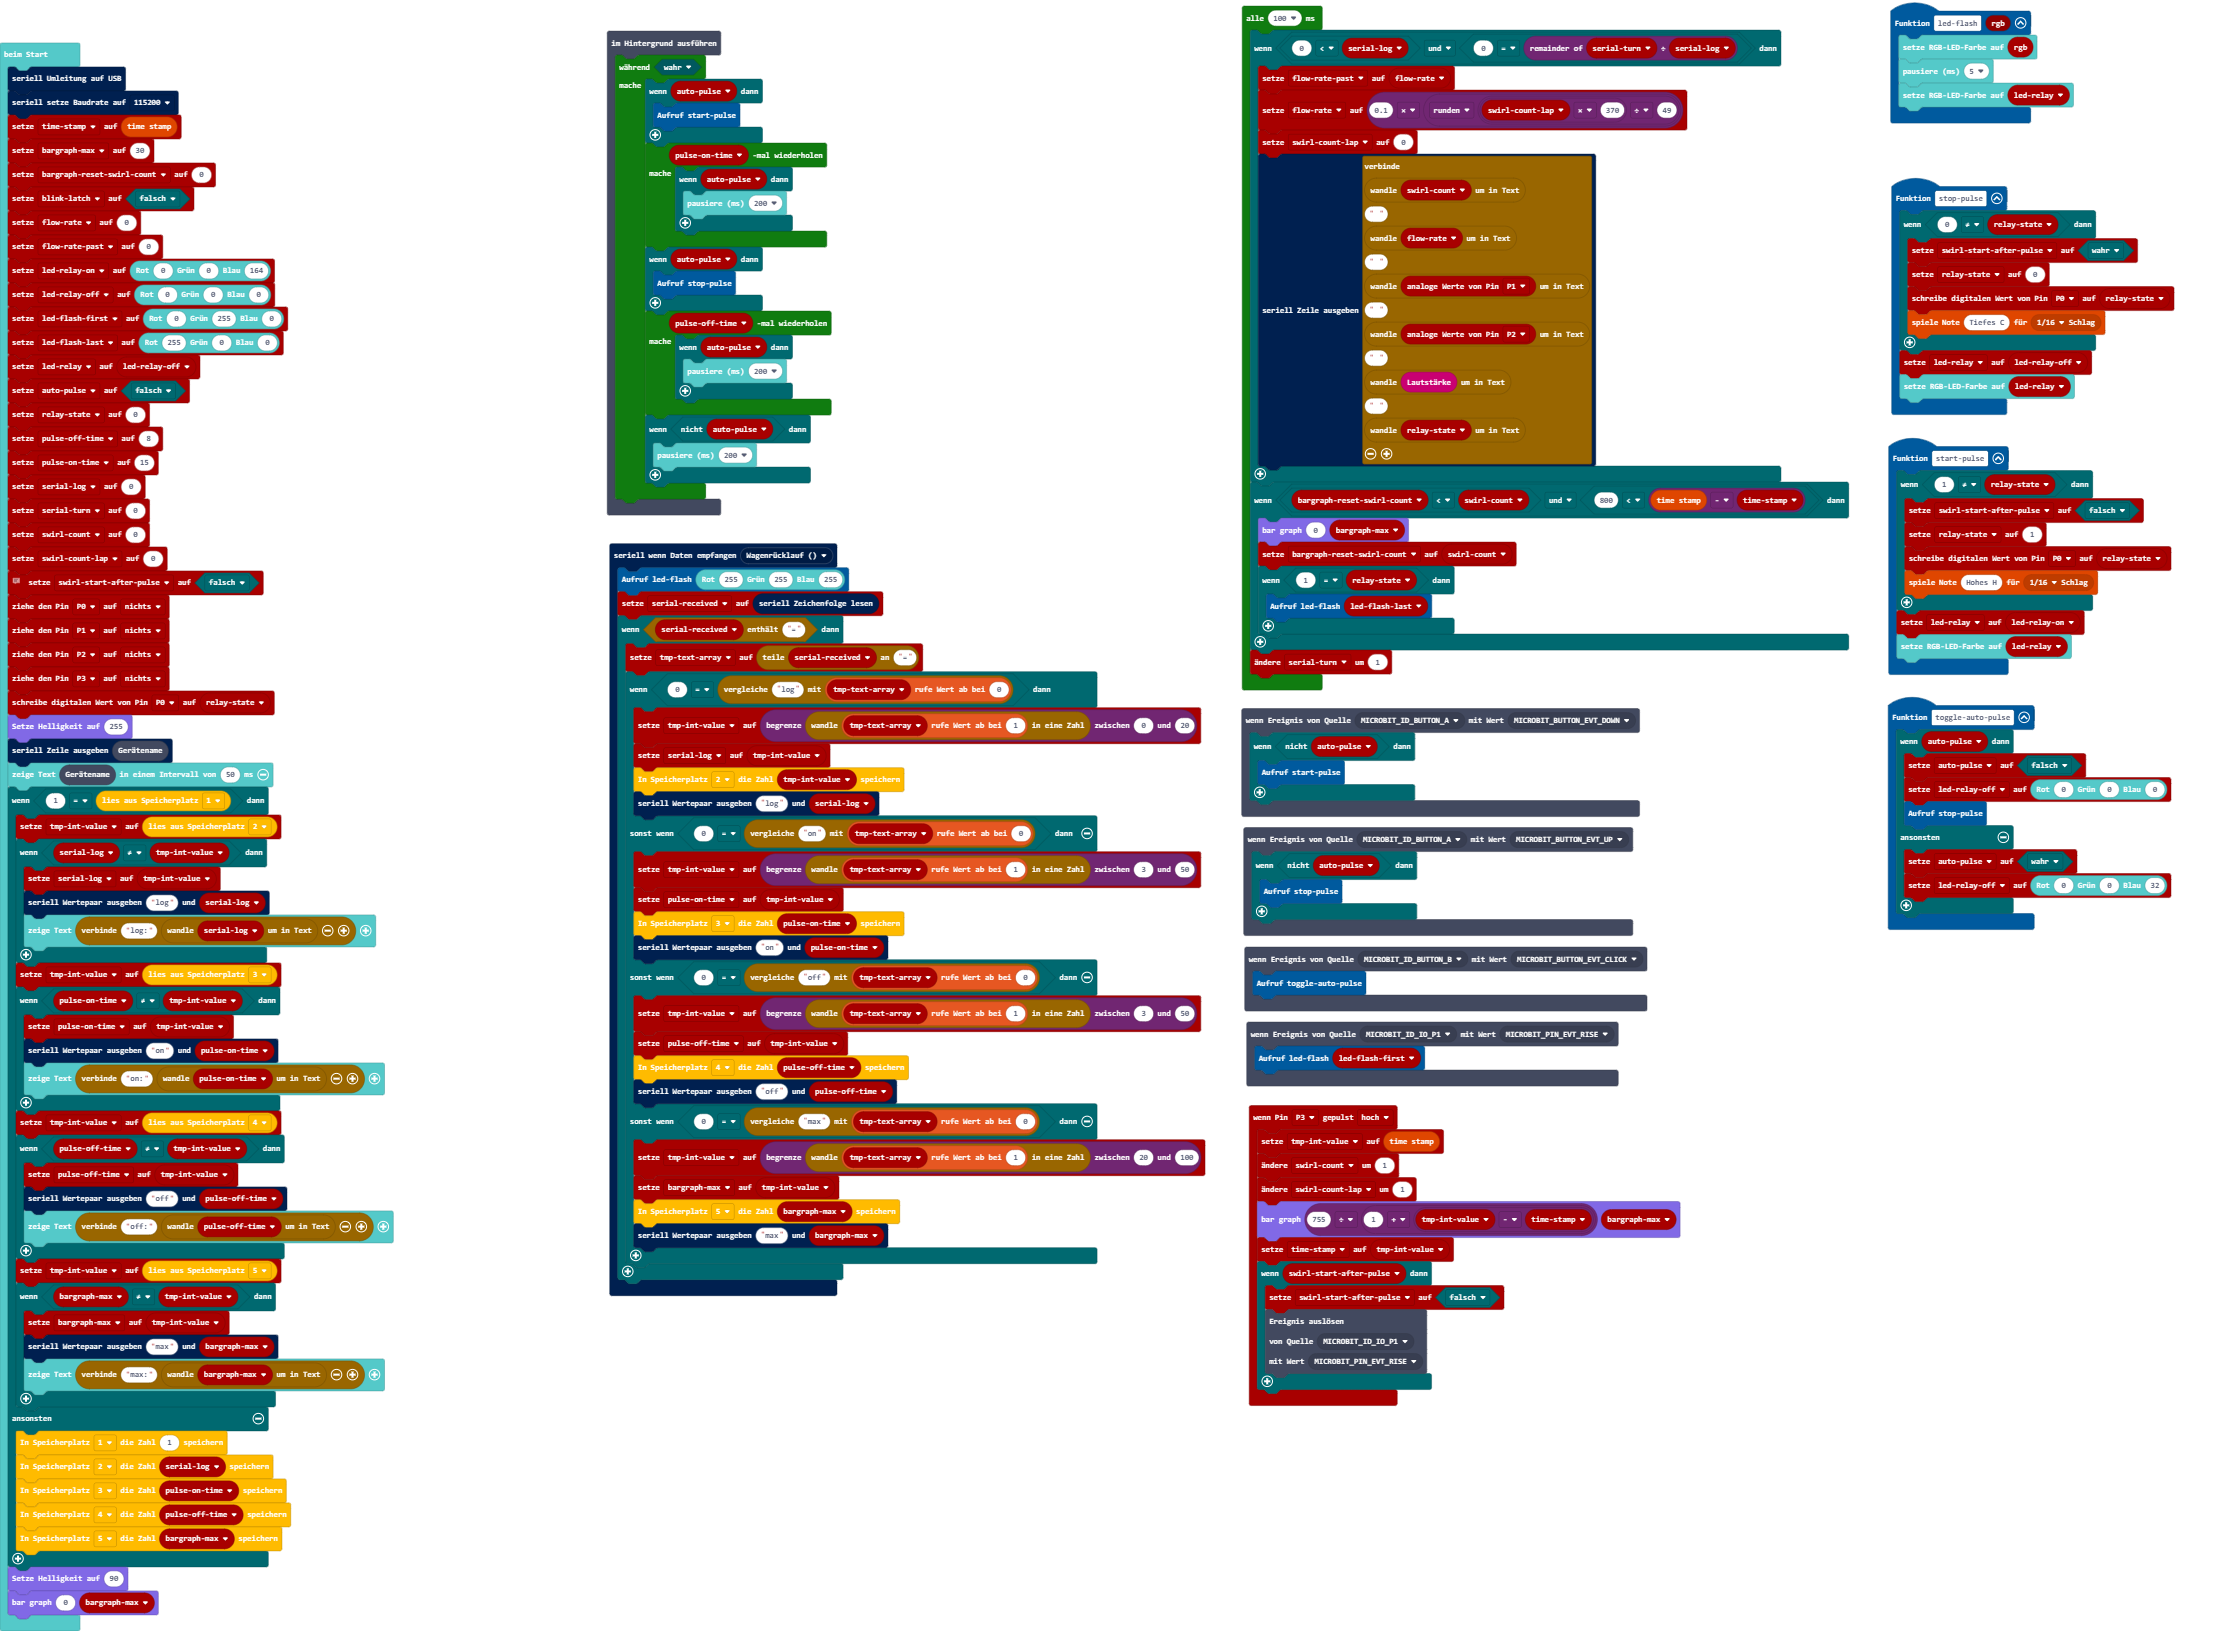
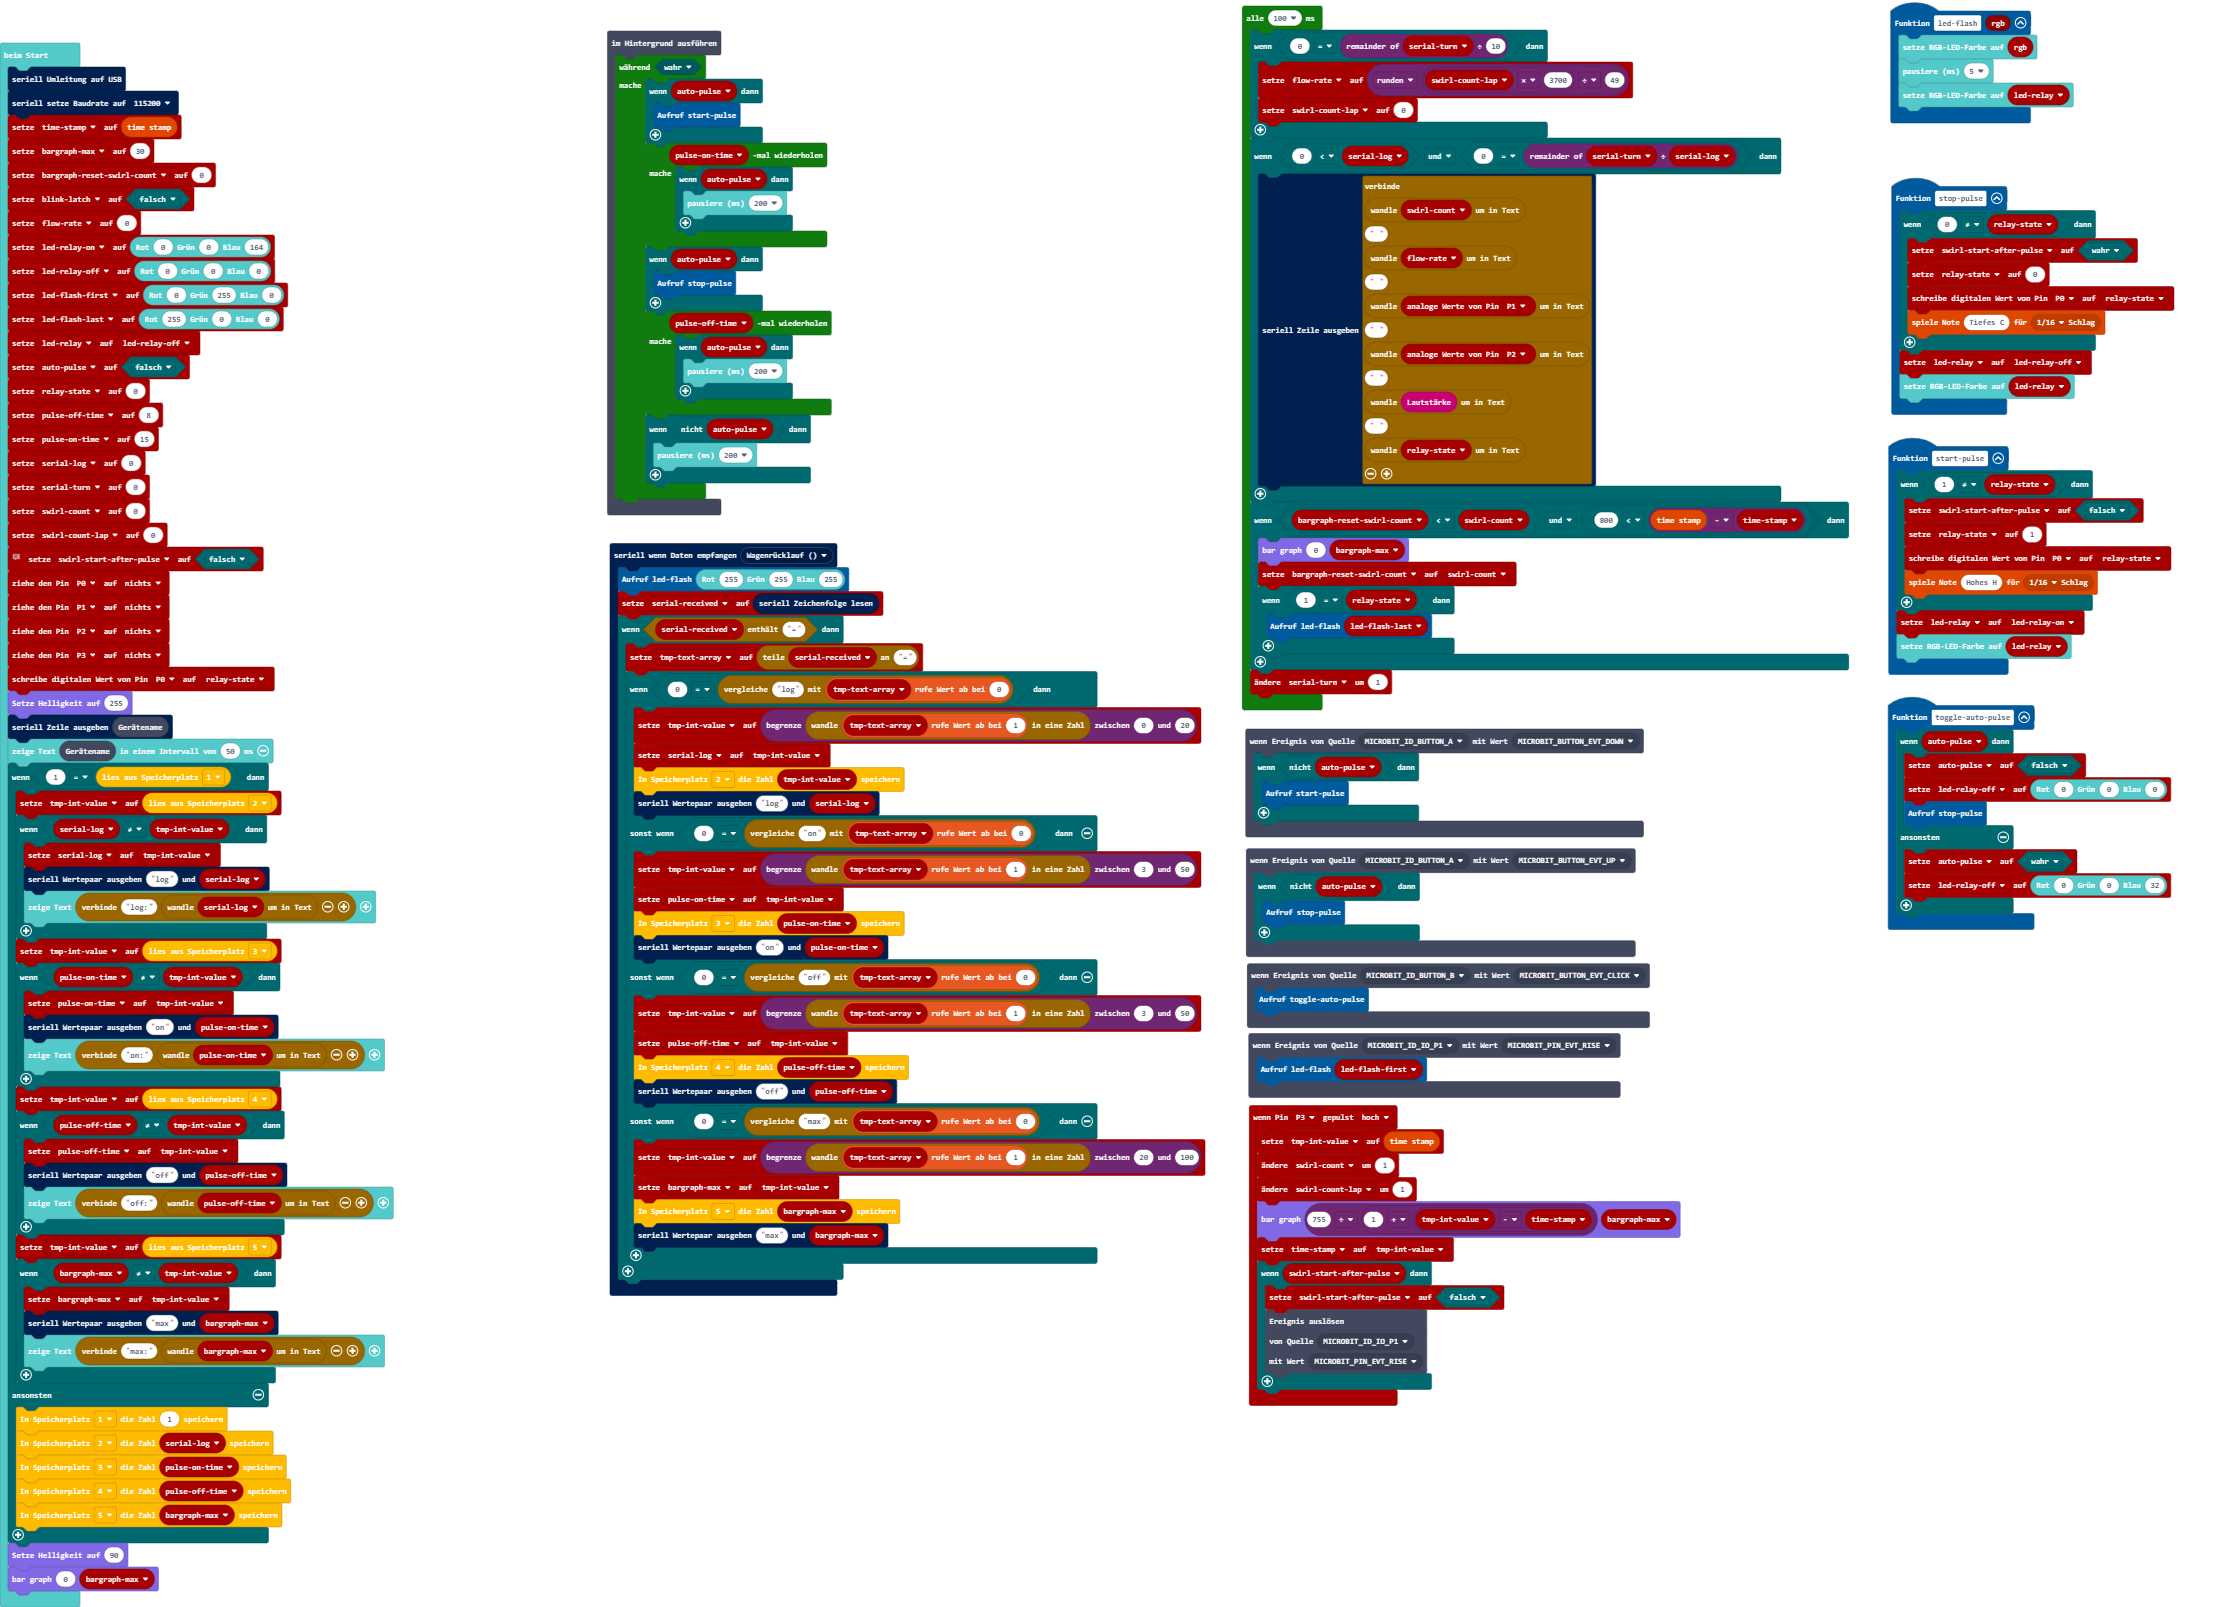
End of day commit.

Changed region(s): [[0.279, 0.0, 0.9919, 0.9023], [0.0, 0.0311, 0.186, 0.9956], [0.8679, 0.0, 0.9299, 0.0933]]

diff --git a/main.ts b/main.ts
@@ -113,7 +113,6 @@ bargraphmax = 30
 let bargraphresetswirlcount = 0
 let blinklatch = false
 let flowrate = 0
-let flowratepast = 0
 ledrelayon = basic.rgb(0, 0, 164)
 ledrelayoff = basic.rgb(0, 0, 0)
 ledflashfirst = basic.rgb(0, 255, 0)
@@ -195,10 +194,11 @@ control.inBackground(function () {
     }
 })
 loops.everyInterval(100, function () {
-    if (0 < seriallog && 0 == serialturn % seriallog) {
-        flowratepast = flowrate
-        flowrate = 0.1 * Math.round(swirlcountlap * 370 / 49)
+    if (0 == serialturn % 10) {
+        flowrate = Math.round(swirlcountlap * 3700 / 49)
         swirlcountlap = 0
+    }
+    if (0 < seriallog && 0 == serialturn % seriallog) {
         serial.writeLine("" + convertToText(swirlcount) + " " + convertToText(flowrate) + " " + convertToText(pins.analogReadPin(AnalogPin.P1)) + " " + convertToText(pins.analogReadPin(AnalogPin.P2)) + " " + convertToText(input.soundLevel()) + " " + convertToText(relaystate))
     }
     if (bargraphresetswirlcount < swirlcount && 800 < diverseTools.timeStamp() - timestamp) {
